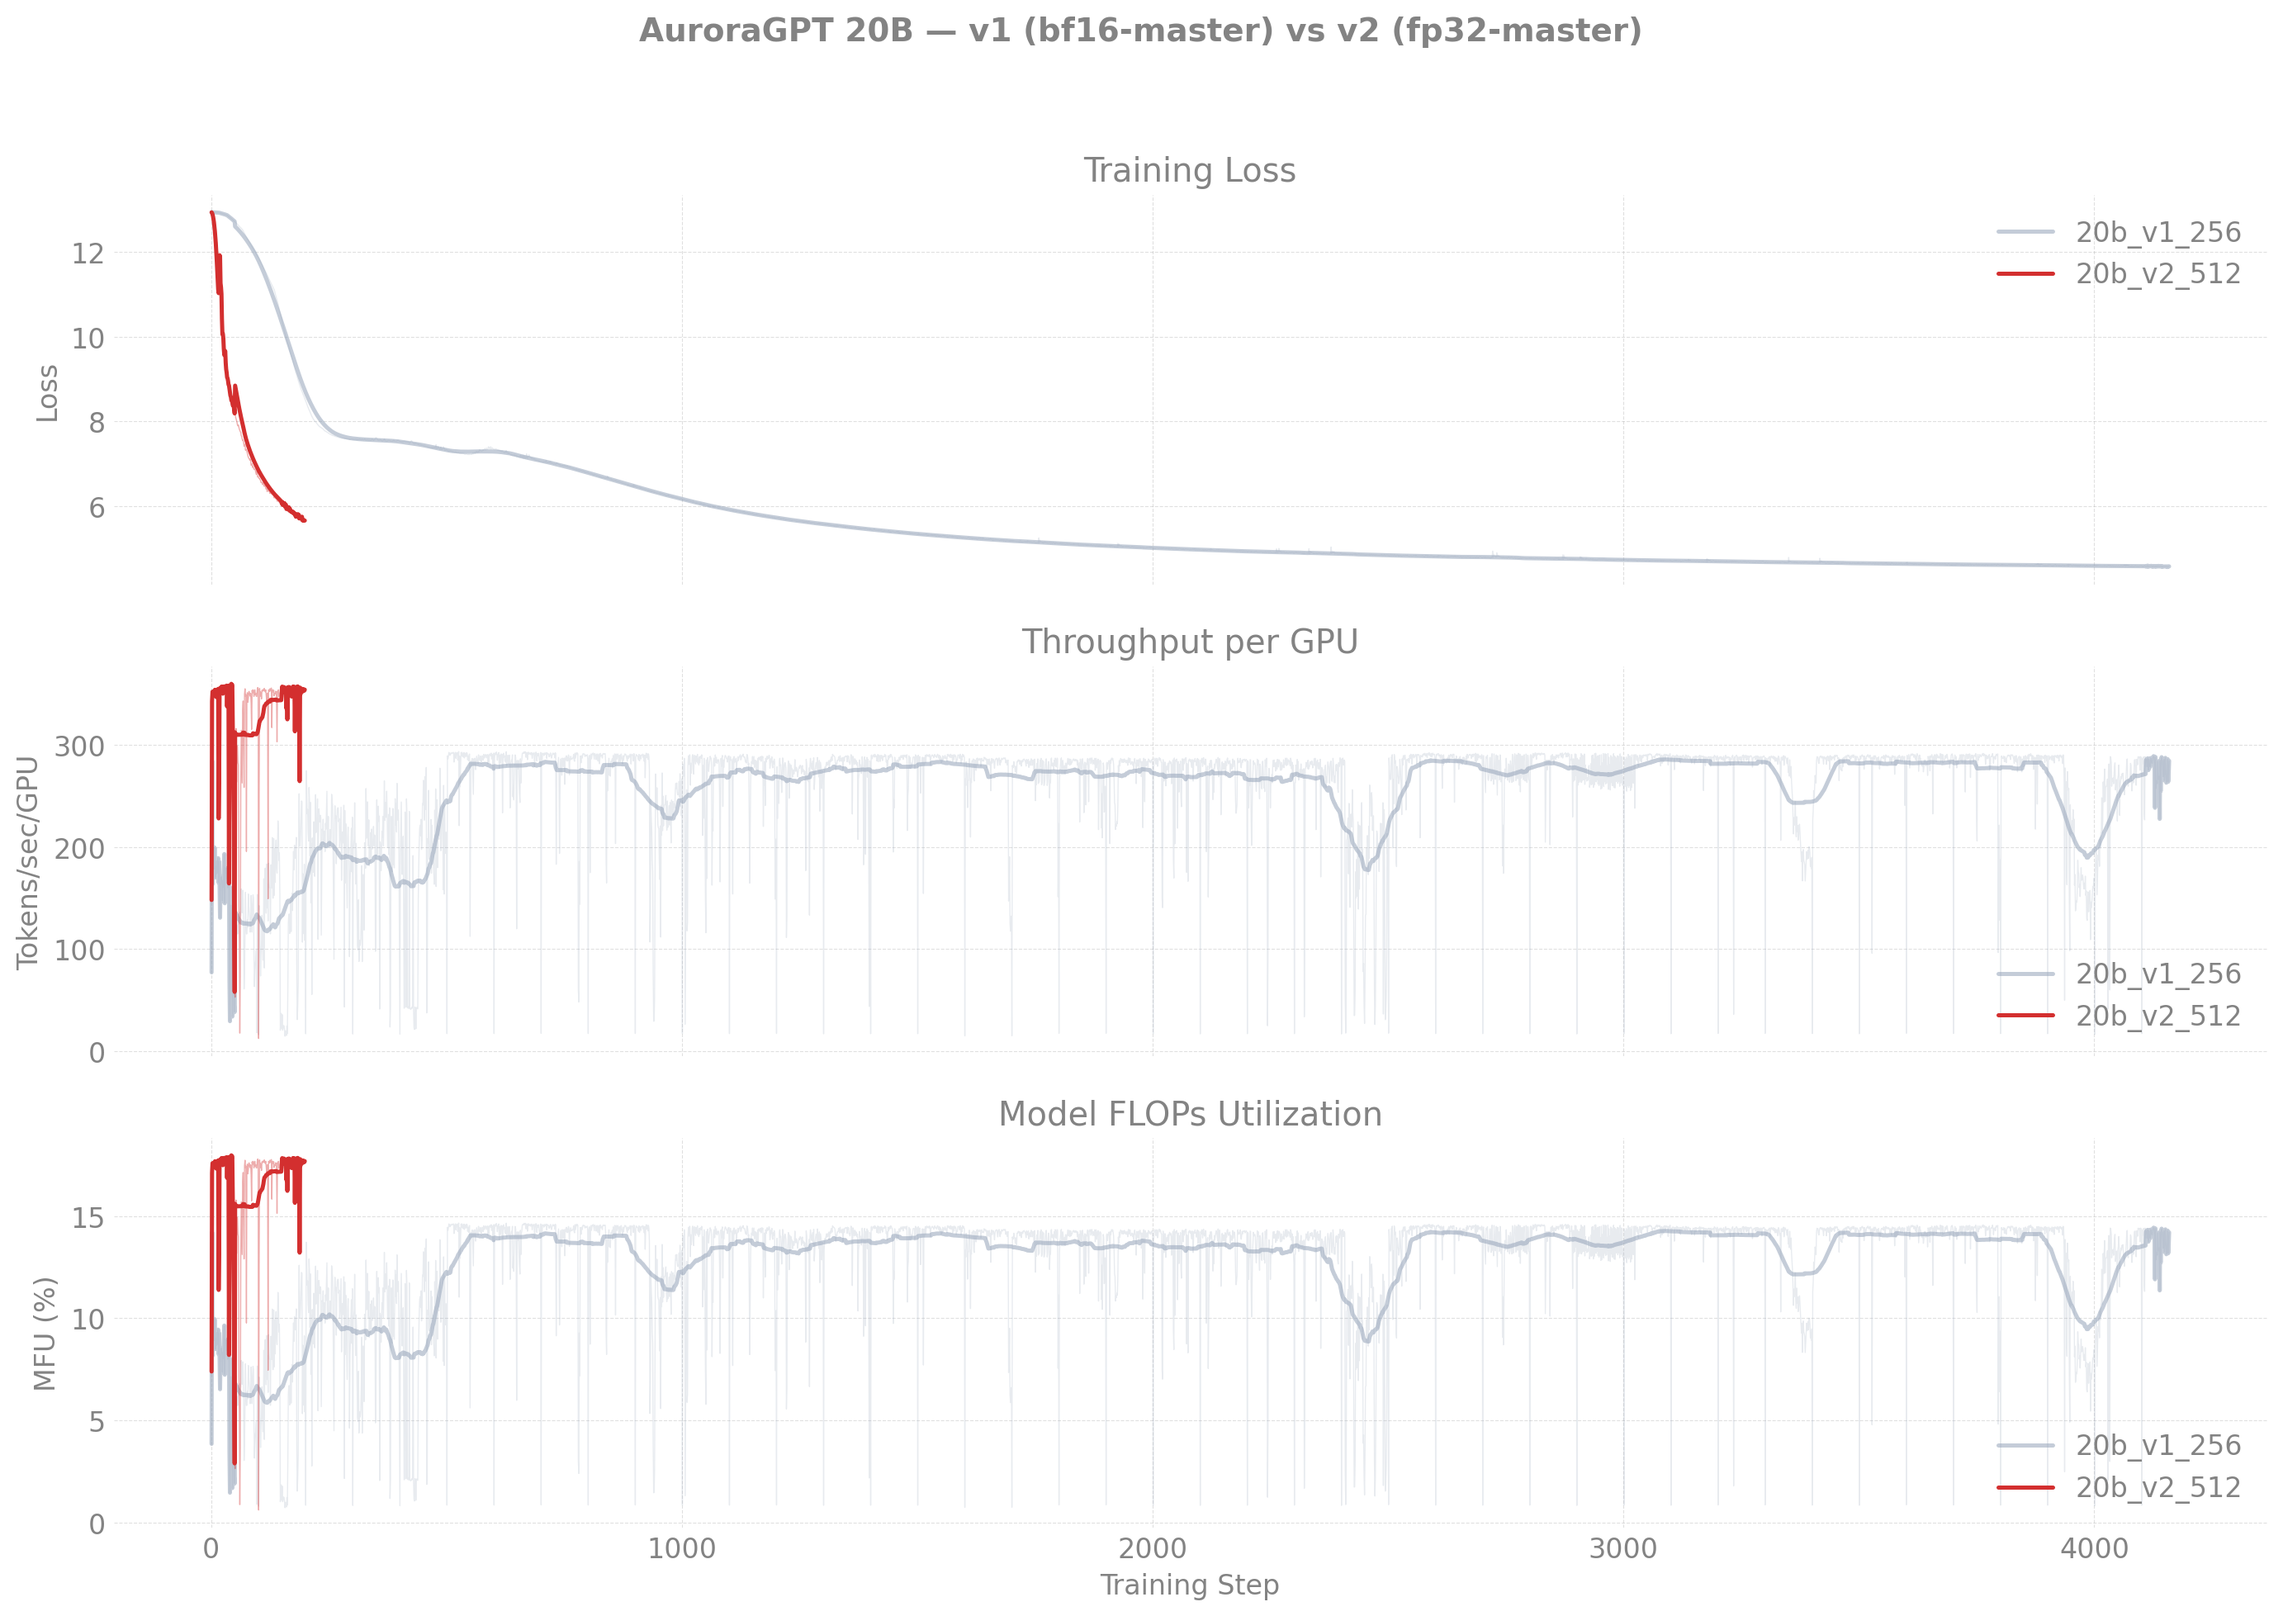
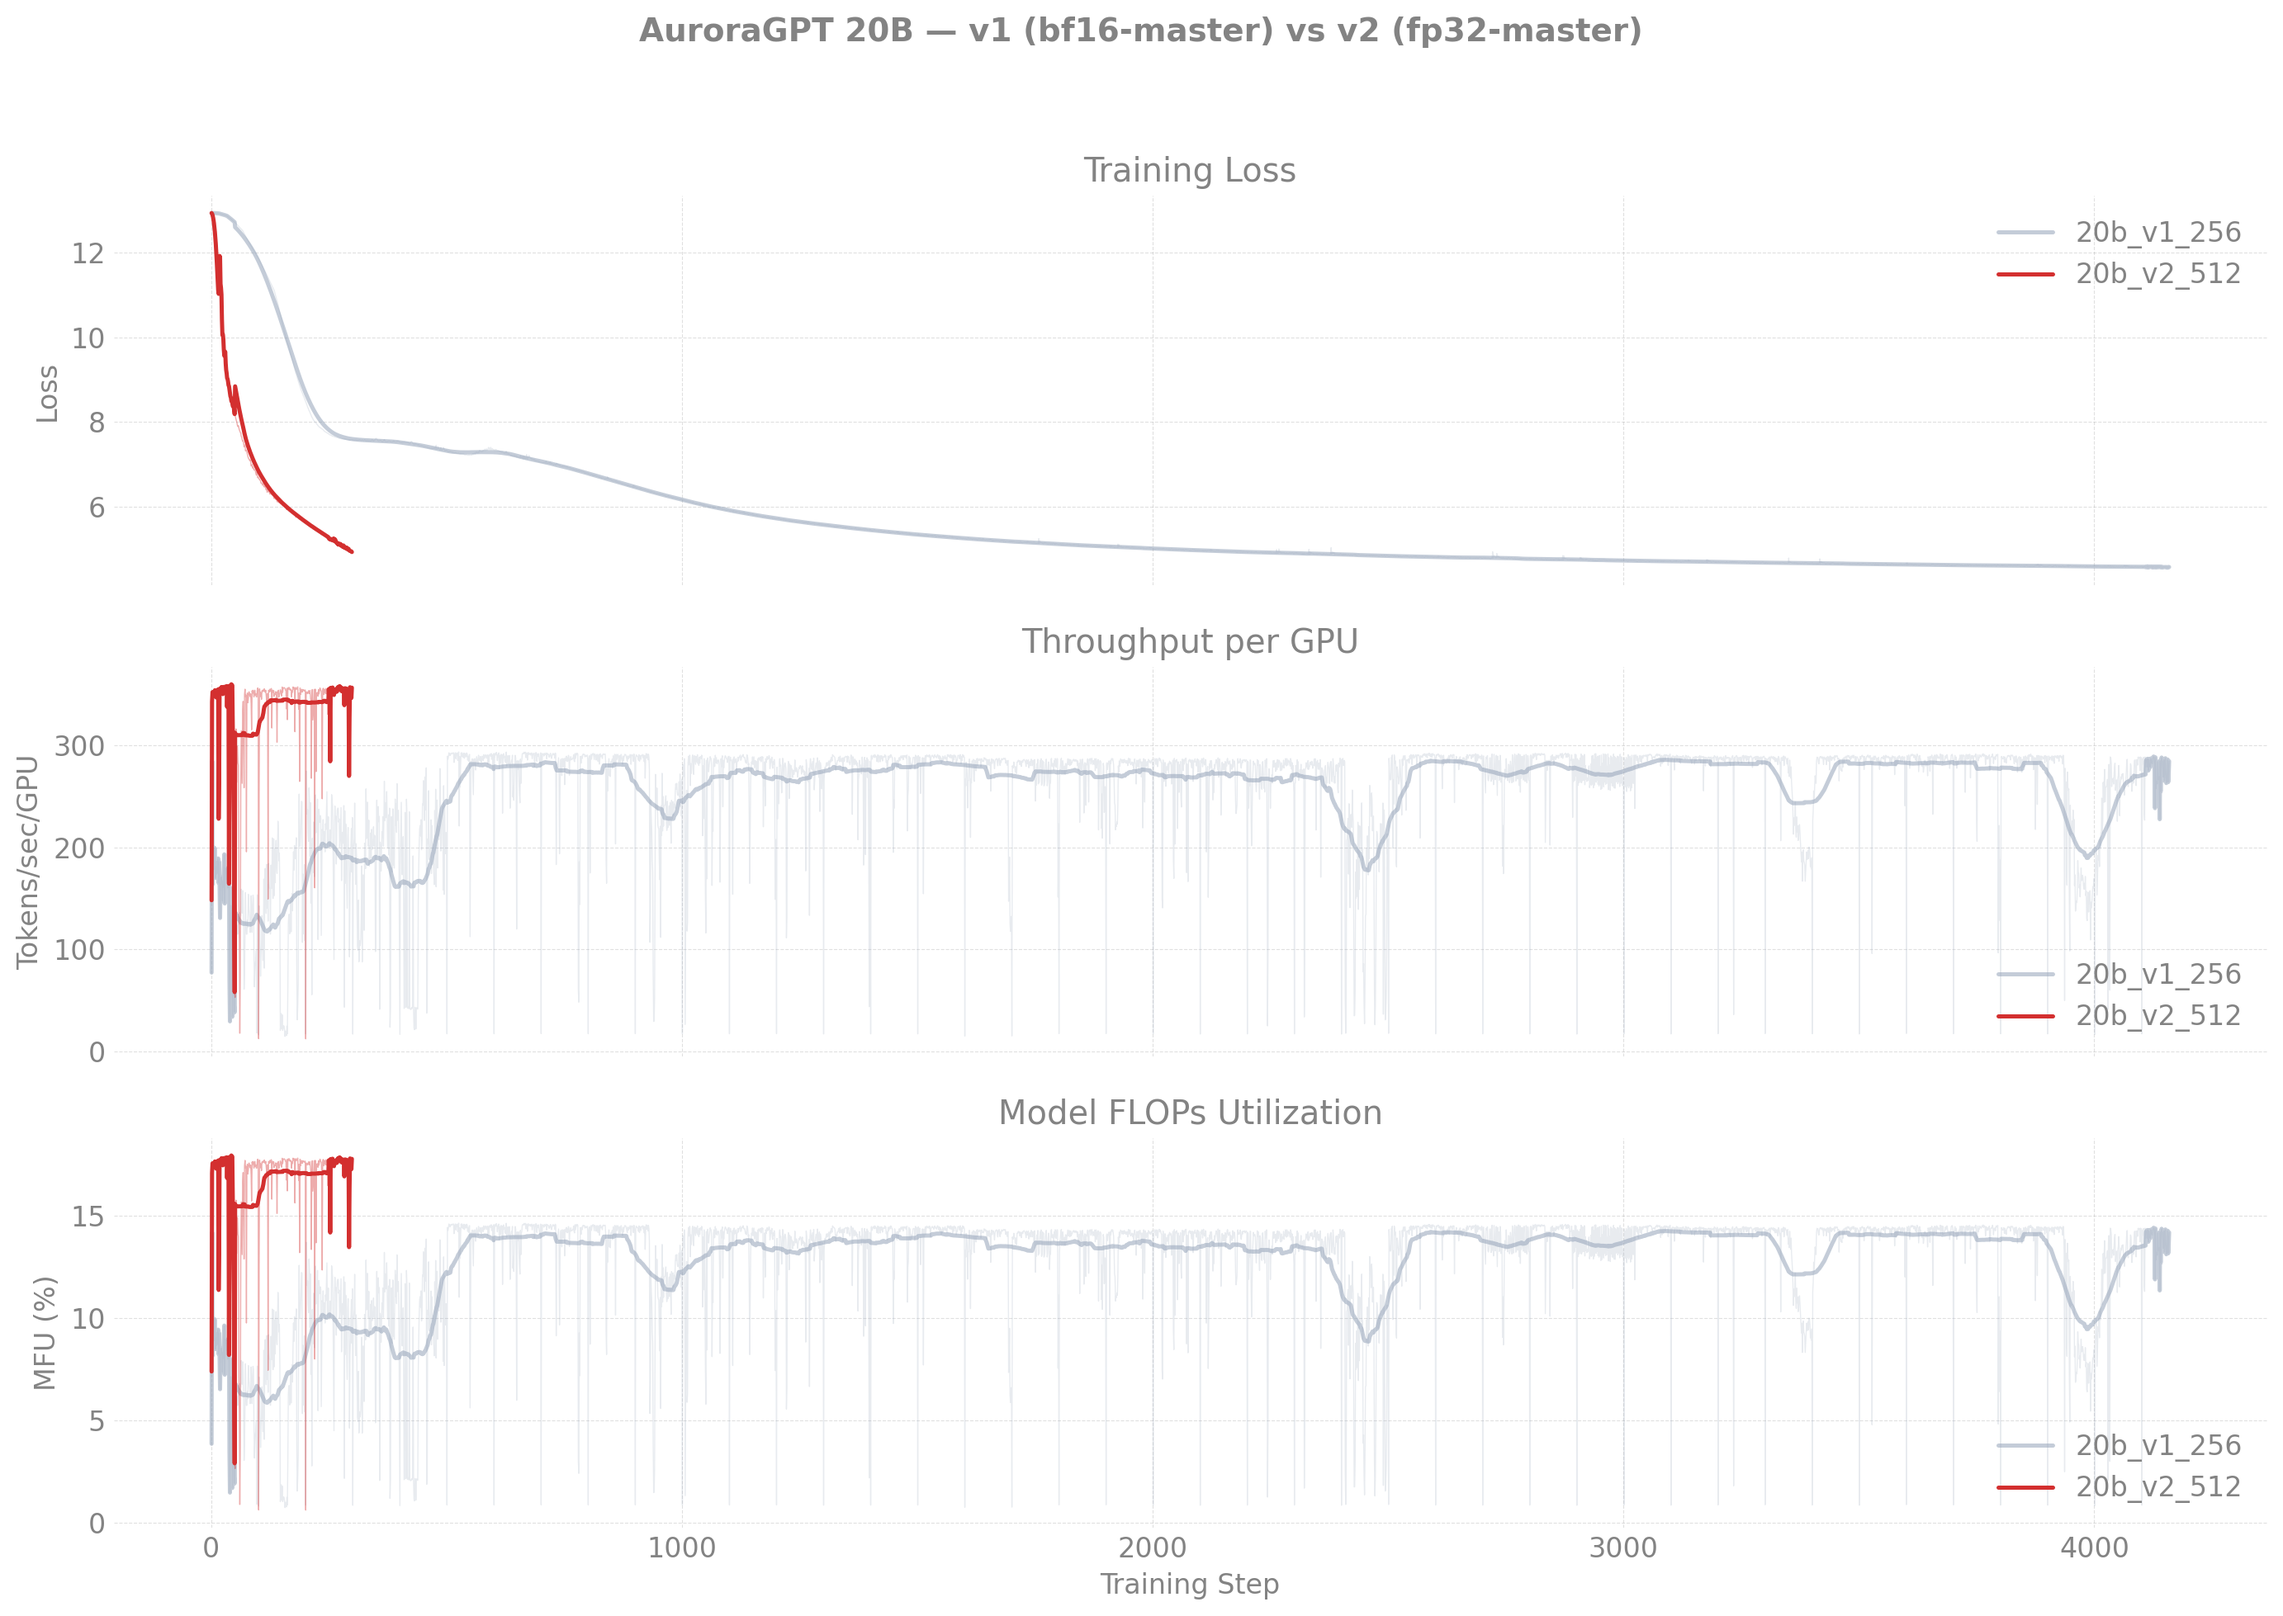
docs(ezpz/production): refresh with current state, mark canonical chains
Production training has now logged real progress:

- 2B 512N canonical chain: 8460301 → 8463626 → 8463627 (queued).
  Cumulative step 5,073, loss 2.97, 510B tokens (10.9% of target).
  50 ckpts saved (every 100 from step-100 to step-5000).
- 20B 512N canonical chain: 8460302 → 8463628 (running).
  Cumulative step 300, loss 4.95, 30B tokens (0.6%).

Other queued jobs (2B 1024N, 20B 1024N, 20B 256N) are at *different*
node counts and so write to different ckpt dirs — they are
independent trajectories, NOT extensions of the canonical chain.
Reframed the docs as "canonical chain" + "other queued (independent)"
to make this distinction unmissable.

Plots refreshed (now includes 8463626's 5K-step run for 2B 512N).
Note: 2B v2 512N already at step 5073 / loss 2.97 vs v1's flat ~5.6
across 33K steps. Evals (separate dir) further validated this with
ARC-Easy +15.9pp at 100B tokens.

Also marked 2B 256N v2 as no-continuation (8459818 ran 6h then
NODE_FAIL; not chained, would need explicit re-submit to extend).

Changed region(s): [[0.1244, 0.4052, 0.1555, 0.4987], [0.1244, 0.7169, 0.1555, 0.7793], [0.1244, 0.3117, 0.1555, 0.3429]]

diff --git a/torchtitan/experiments/ezpz/utils/plot_production_wandb.py b/torchtitan/experiments/ezpz/utils/plot_production_wandb.py
@@ -89,7 +89,9 @@ PRODUCTION_RUNS: dict[str, dict] = {
         "model": "2b",
     },
     "2b_v2_512": {
-        "run_ids": ["i252kps9"],
+        # i252kps9 = 8460301 (initial 6h, step 0->1387)
+        # d4hlr8qe = 8463626 (12h chain1, resumed step 1300, ended step 5073)
+        "run_ids": ["i252kps9", "d4hlr8qe"],
         "num_nodes": 512,
         "model": "2b",
     },

diff --git a/torchtitan/experiments/ezpz/docs/production/agpt/README.md b/torchtitan/experiments/ezpz/docs/production/agpt/README.md
@@ -1,22 +1,49 @@
 # Production Training — Dense (agpt) Models
 
-> Last updated: 2026-05-01
+> Last updated: 2026-05-03
 >
 > **Restarted in v2 clones on 2026-04-30** after the bf16-master
 > RMSNorm-freeze regression. All current production training is on
 > `dtype=float32` master weights. Historical bf16-tainted runs are
 > retained inside each per-model README under "Historical".
 
-## Active runs (v2 — torch 2.13 venv, fp32 master)
+## Single canonical chain per model
 
-| Run | Report | Nodes | Walltime | Steps Done | Loss | Tokens | Status |
-|-----|--------|------:|---------:|-----------:|-----:|-------:|--------|
-| 2B-256N v2 | [details](2b/) | 256 | 6h | 2,070 | 3.33 | 104B | NODE_FAIL after step 2070 (resumable from step-2000 ckpt) |
-| 2B-512N v2 | [details](2b/) | 512 | 6h+12h+12h | 1,387 | 3.59 | 140B | NODE_FAIL; chained 12h continuation queued (8463626→8463627) |
-| 2B-1024N v2 | [details](2b/) | 1024 | 12h | — | — | — | **Queued** (8463182) |
-| 20B-512N v2 | [details](20b/) | 512 | 6h+12h | 148+ | 6.13 | 15B | **Running** (8460302); 12h continuation held (8463628) |
-| 20B-1024N v2 | [details](20b/) | 1024 | 12h | — | — | — | **Queued** (8463183) |
-| 80B-256N | [details](80b/) | 256 | — | — | — | — | Not yet restarted in v2 |
+Per-model production training is consolidated on **one** chain to
+avoid divergent trajectories. Other queued jobs at different node
+counts share the model but write to *different* checkpoint dirs (keyed
+on `gbs`), so they're independent trajectories — they're not joining
+the canonical chain. Treat them as scaling experiments, not as
+extensions.
+
+### 2B canonical chain (512N)
+
+| Job ID | Walltime | Steps | Loss | Status |
+|--------|---------:|------:|-----:|--------|
+| 8460301 | 6h | 1–1387 | 12.65 → 3.59 | Done (NODE_FAIL @ end) |
+| 8463626 | 12h | 1300–5073 | 3.59 → **2.97** | Done (NODE_FAIL @ end). 50 ckpts saved. |
+| 8463627 | 12h | 5000+ | (resuming) | **Queued** (auto-resumes from step-5000) |
+
+**Latest cumulative**: step **5,073** · loss **2.97** · **510B tokens** (10.9% of 4.67T target).
+
+### 20B canonical chain (512N)
+
+| Job ID | Walltime | Steps | Loss | Status |
+|--------|---------:|------:|-----:|--------|
+| 8460302 | 6h | 1–300 | 12.94 → 4.95 | Done (NODE_FAIL @ end). 3 ckpts saved. |
+| 8463628 | 12h | 300+ | (resuming) | **Running** (auto-resumes from step-300) |
+
+**Latest cumulative**: step **300** · loss **4.95** · **30B tokens** (0.6% of 4.67T target).
+
+## Other queued jobs (independent ckpt trajectories, NOT canonical chain)
+
+| Job ID | Model | Nodes | Walltime | Status | Notes |
+|--------|-------|------:|---------:|--------|-------|
+| 8463182 | 2B | 1024 | 12h | Queued | Fresh start, separate ckpt dir (`n1024-gbs24576`) |
+| 8463183 | 20B | 1024 | 12h | Queued | Fresh start, separate ckpt dir (`n1024-gbs24576`) |
+| 8463659 | 20B | 256 | 12h | Queued | Fresh start, separate ckpt dir (`n256-gbs6144`) |
+
+**80B**: not yet restarted in v2.
 
 ## v1 (bf16-master, broken) vs v2 (fp32-master, current)
 

diff --git a/torchtitan/experiments/ezpz/docs/production/agpt/2b/README.md b/torchtitan/experiments/ezpz/docs/production/agpt/2b/README.md
@@ -27,7 +27,12 @@ Generated by:
 python3 torchtitan/experiments/ezpz/utils/plot_production_wandb.py --overlay 2b
 ```
 
-## v2 — 2B @ 256N — SophiaG LR=2.28e-5 (fp32 master)
+## v2 — 2B @ 256N — SophiaG LR=2.28e-5 (fp32 master, **no continuation**)
+
+> Status: ran one job (8459818, 6h, NODE_FAIL after step 2070, 20 ckpts
+> saved). No continuation chained — production is currently
+> consolidated on the **2B 512N** chain below. Resumable from
+> `outputs/checkpoints/.../n256-gbs6144/step-2000` if we want to revisit.
 
 | Field | Value |
 |-------|-------|
@@ -77,7 +82,7 @@ python3 torchtitan/experiments/ezpz/utils/plot_production_wandb.py --overlay 2b
 | Total steps | 46,429 |
 | Total tokens | 4.67T |
 | Checkpoint dir | `outputs/checkpoints/agpt-2b-sophiag-olmo-mix-1124-n512-gbs12288` |
-| W&B | [i252kps9](https://wandb.ai/aurora_gpt/torchtitan.ezpz.train/runs/i252kps9) |
+| W&B chain | [i252kps9](https://wandb.ai/aurora_gpt/torchtitan.ezpz.train/runs/i252kps9) → [d4hlr8qe](https://wandb.ai/aurora_gpt/torchtitan.ezpz.train/runs/d4hlr8qe) |
 
 ### Loss / Throughput / MFU
 
@@ -87,17 +92,19 @@ python3 torchtitan/experiments/ezpz/utils/plot_production_wandb.py --overlay 2b
 
 ![2B v2 512N Diagnostics](figures/training_diagnostics_2b_v2_512n.png)
 
-### Progress
+### Progress (chain)
 
-| Job ID | Steps | Loss (start → end) | TPS/GPU | MFU | Status |
-|--------|-------|---------------------|---------|-----|--------|
-| 8460301 | 1–1387 | 12.65 → 3.59 | ~2,700 | ~10% | NODE_FAIL after step 1387 (same bad-node end-of-run pattern). 13 ckpts saved. |
-| 8463626 | 1300+ | (continuing) | — | — | **Queued** (12h walltime) |
-| 8463627 | (cont.) | — | — | — | Held (`afterany:8463626`) |
+| Job ID | Walltime | Steps | Loss (start → end) | TPS/GPU | MFU | Status |
+|--------|---------:|------:|-------------------:|--------:|----:|--------|
+| 8460301 | 6h | 1–1387 | 12.65 → 3.59 | ~2,700 | ~10% | NODE_FAIL after step 1387. 13 ckpts saved. |
+| 8463626 | 12h | 1300–5073 | 3.59 → 2.97 | ~2,700 | ~10% | Walltime hit (NODE_FAIL at end). **50 ckpts saved (every 100 steps).** |
+| 8463627 | 12h | 5000+ | — | — | — | **Queued** (will auto-resume from step-5000) |
 
-**Latest checkpoint:** step-1300
+**Latest checkpoint:** step-5000
 
-**Tokens consumed:** 1387 × 12288 × 8192 = **140B tokens** (3.0% of target)
+**Cumulative steps:** 5,073
+
+**Tokens consumed:** 5,073 × 12,288 × 8,192 = **510B tokens** (10.9% of 4.67T target)
 
 ---
 

diff --git a/torchtitan/experiments/ezpz/docs/production/README.md b/torchtitan/experiments/ezpz/docs/production/README.md
@@ -27,15 +27,20 @@ for the diagnosis.
 
 ## Active Runs
 
-### Dense (agpt) — v2 (fp32 master)
+### Canonical chains (one per model)
 
-| Run | Model | Nodes | Optimizer | Compile | Steps | Loss | Tokens | Status |
-|-----|-------|------:|-----------|---------|------:|-----:|-------:|--------|
-| [2B-256N](agpt/2b/) | 2B | 256 | SophiaG | off | 2,070 | 3.33 | 104B | NODE_FAIL @ step 2070 (ckpt-2000 saved) |
-| [2B-512N](agpt/2b/) | 2B | 512 | SophiaG | off | 1,387 | 3.59 | 140B | NODE_FAIL; chained continuation queued |
-| [2B-1024N](agpt/2b/) | 2B | 1024 | SophiaG | off | — | — | — | **Queued** (8463182) |
-| [20B-512N](agpt/20b/) | 20B | 512 | SophiaG | off | 148+ | 6.13 | 15B | **Running** (8460302) |
-| [20B-1024N](agpt/20b/) | 20B | 1024 | SophiaG | off | — | — | — | **Queued** (8463183) |
+| Model | Nodes | Cumulative steps | Loss | Tokens | Latest job | Status |
+|-------|------:|-----------------:|-----:|-------:|------------|--------|
+| 2B  | 512 | **5,073** | **2.97** | **510B** (10.9%) | 8463627 | Queued — auto-resumes from step-5000 |
+| 20B | 512 | **300**   | **4.95** | **30B** (0.6%)   | 8463628 | **Running** — auto-resumes from step-300 |
+
+### Other queued jobs (independent ckpt trajectories)
+
+| Job ID | Model | Nodes | Walltime | Status |
+|--------|-------|------:|---------:|--------|
+| 8463182 | 2B | 1024 | 12h | Queued (separate ckpt dir, fresh start) |
+| 8463183 | 20B | 1024 | 12h | Queued (separate ckpt dir, fresh start) |
+| 8463659 | 20B | 256 | 12h | Queued (separate ckpt dir, fresh start) |
 
 ### Dense (agpt) — bf16-tainted (superseded, kept for record)
 

diff --git a/torchtitan/experiments/ezpz/docs/production/agpt/20b/README.md b/torchtitan/experiments/ezpz/docs/production/agpt/20b/README.md
@@ -42,12 +42,18 @@ python3 torchtitan/experiments/ezpz/utils/plot_production_wandb.py --overlay 20b
 
 ![20B v2 512N Diagnostics](figures/training_diagnostics_20b_v2_512n.png)
 
-### Progress
+### Progress (chain)
 
-| Job ID | Steps | Loss (start → end) | TPS/GPU | MFU | Status |
-|--------|-------|---------------------|---------|-----|--------|
-| 8460302 | 1–148+ | 12.94 → 6.13 | ~350 | ~17.6% | **Running** (3:42 elapsed at writing) |
-| 8463628 | (cont.) | — | — | — | Held (`afterany:8460302`, 12h continuation) |
+| Job ID | Walltime | Steps | Loss (start → end) | TPS/GPU | MFU | Status |
+|--------|---------:|------:|-------------------:|--------:|----:|--------|
+| 8460302 | 6h | 1–300 | 12.94 → 4.95 | ~355 | ~17.7% | Walltime hit (NODE_FAIL at end). 3 ckpts saved. |
+| 8463628 | 12h | 300+ | (resuming) | — | — | **Running** (auto-resumes from step-300) |
+
+**Latest checkpoint:** step-300 (244 GB on disk per ckpt)
+
+**Cumulative steps:** 300 (more incoming as 8463628 progresses)
+
+**Tokens consumed:** 300 × 12,288 × 8,192 = **30B tokens** (0.6% of 4.67T target)
 
 **Latest checkpoint:** step-100 (244 GB on disk per ckpt)
 
